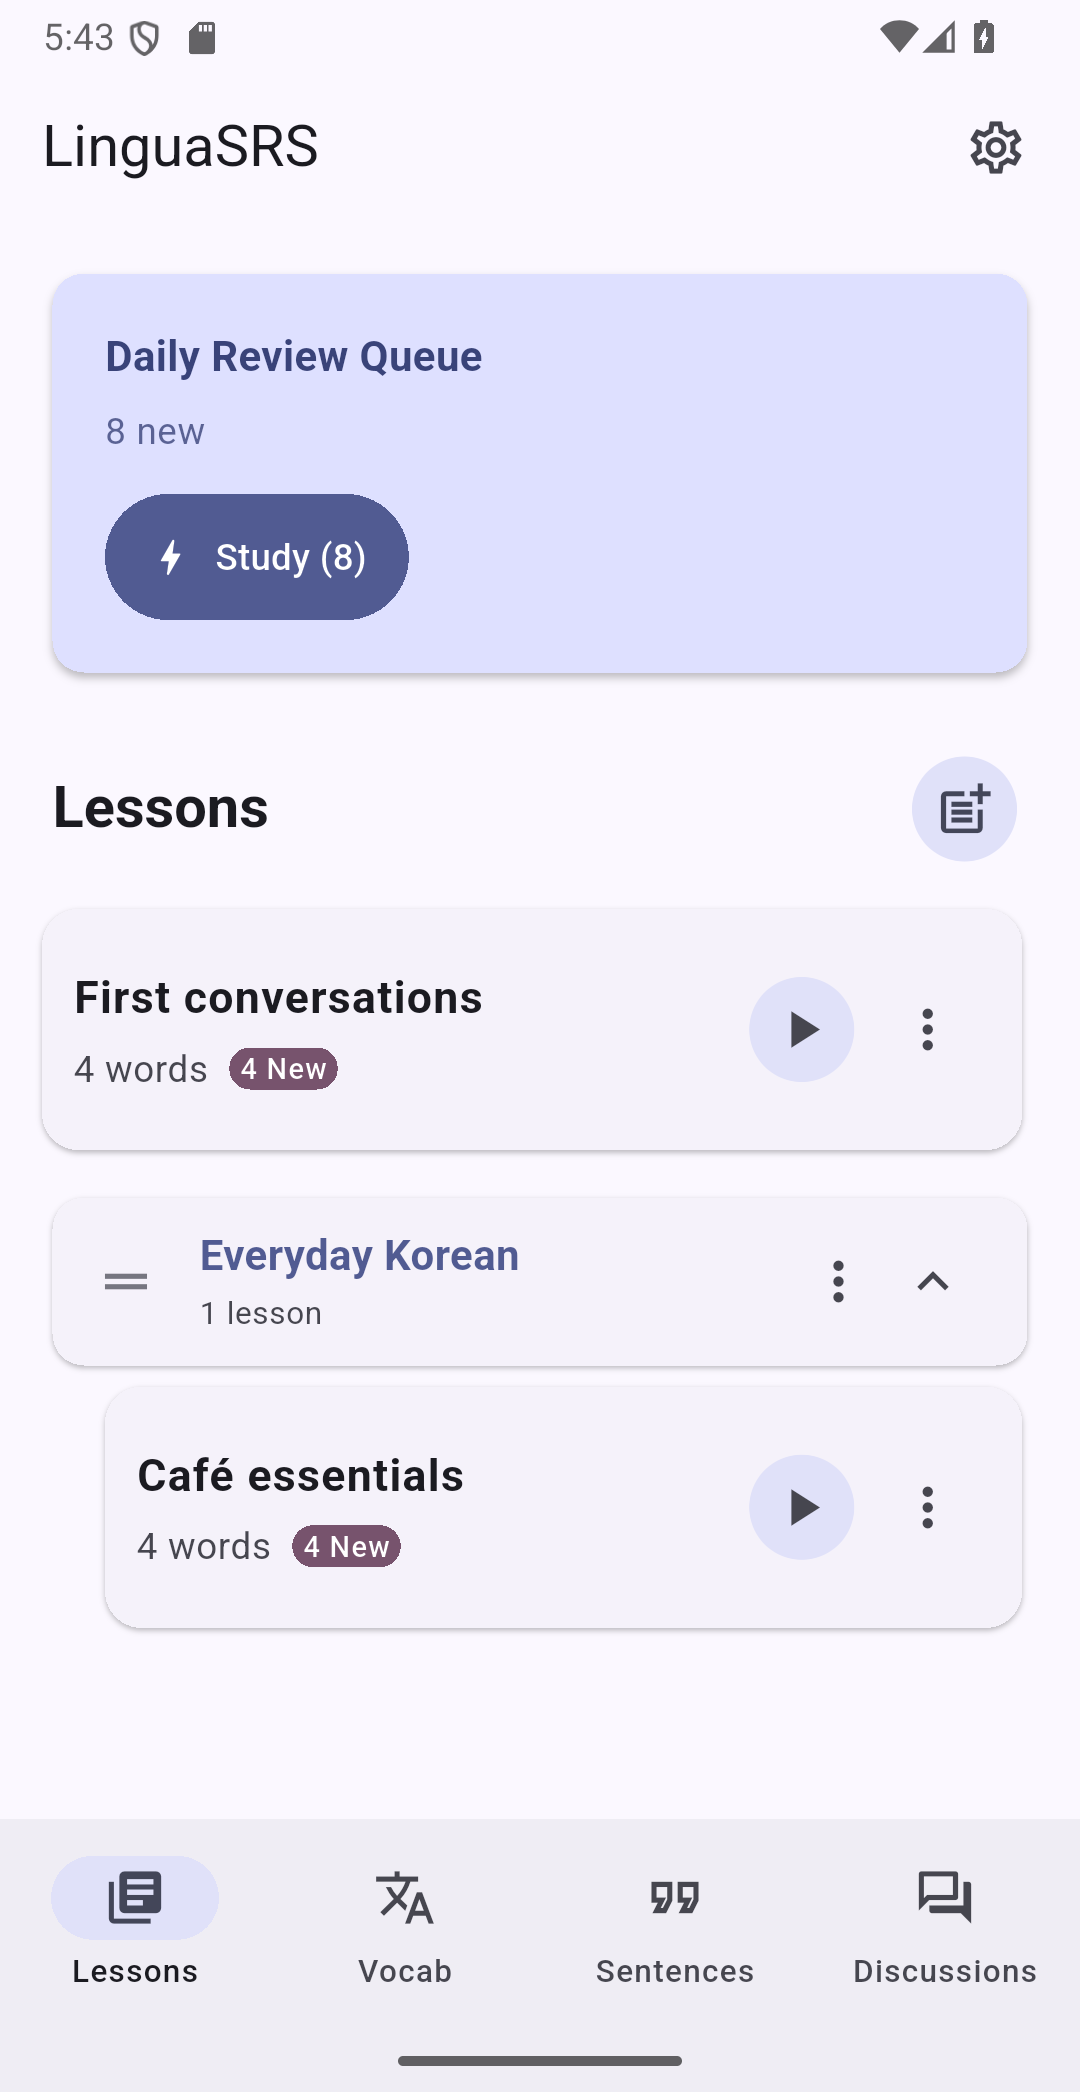
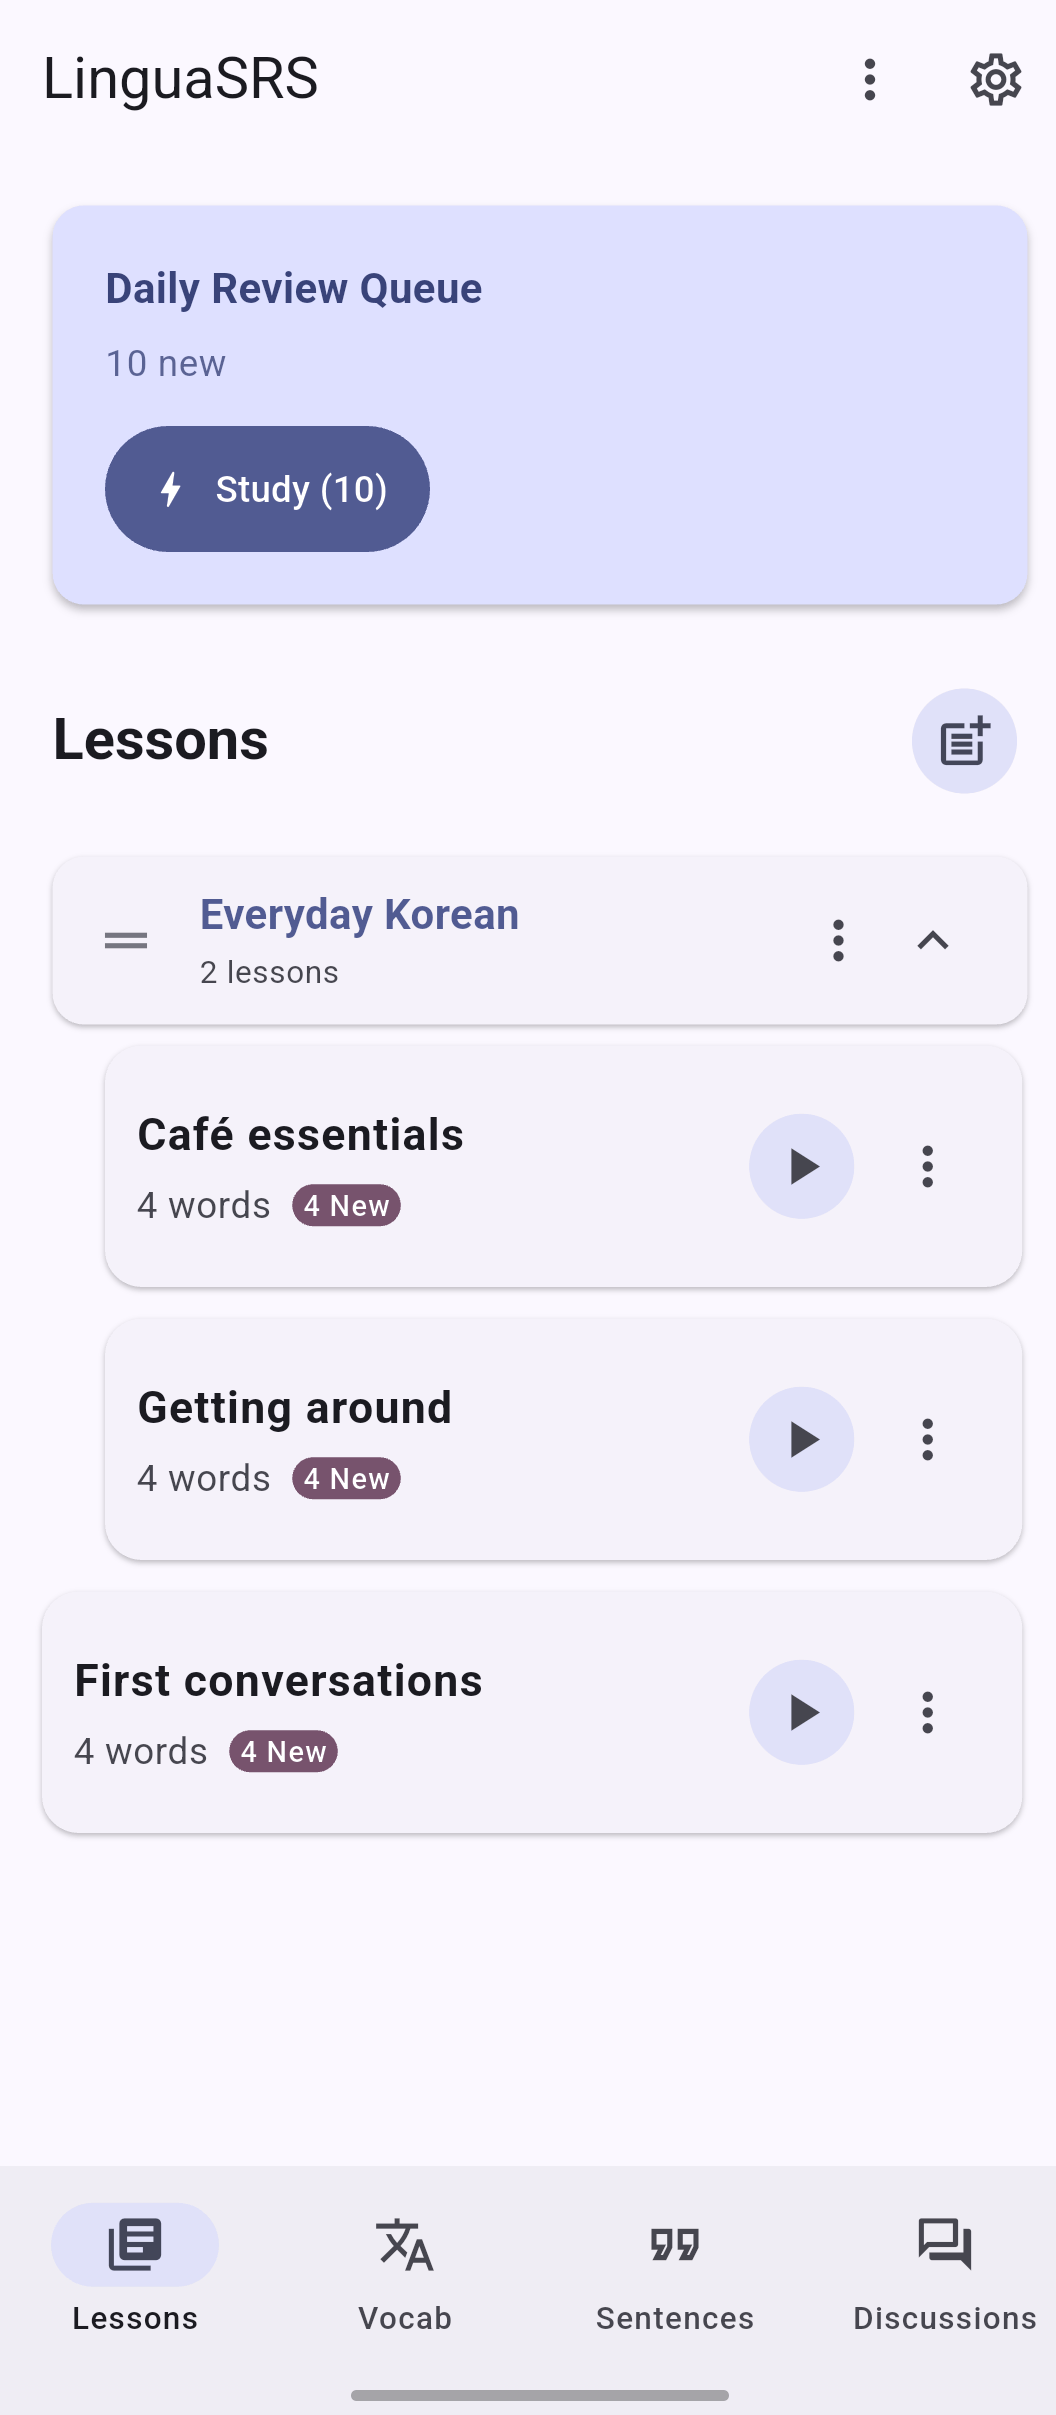
docs(readme): put mobile first, with more Android screenshots
The README led with desktop and showed a single Android screenshot
next to a desktop one. Most studying happens on a phone, so the
README now leads with mobile.

- Say up front that the app is built for Android and iOS, with the
  same app on Windows, macOS and Linux.
- Show five Android screenshots in the first table: Lessons, a card
  front (EN -> KO cloze), its back, the Vocab Pool and the Sentence
  Pool.
- Replace android-lessons.png with a new capture from the same demo
  lessons, so all mobile shots match. Status bars are cropped off.
- Move the desktop screenshots into a collapsed "Desktop screenshots"
  section.
- In Running, list devices first and run on a device id, rather than
  defaulting to Windows.

Screenshots use demo lessons only, with no personal study data.

Fixes #68

diff --git a/README.md b/README.md
@@ -1,23 +1,32 @@
 # LinguaSRS
 
-SRS that puts language learning first: custom lessons, lesson-by-lesson vocabulary review, and a shared sentence pool. A Flutter app for **Windows, macOS, Linux, Android and iOS**, using an Anki-style SM-2 spaced repetition system.
+SRS that puts language learning first: custom lessons, lesson-by-lesson vocabulary review, and a shared sentence pool. Built for studying on your phone (**Android and iOS**), with the same app on **Windows, macOS and Linux**. It uses an Anki-style SM-2 spaced repetition system.
 
 ## Screenshots
 
 <table>
   <tr>
-    <th align="center">Desktop</th>
-    <th align="center">Android</th>
+    <th align="center">Lessons</th>
+    <th align="center">Review</th>
+    <th align="center">Answer</th>
+    <th align="center">Vocab</th>
+    <th align="center">Sentences</th>
   </tr>
   <tr>
-    <td valign="top"><img src="docs/images/desktop-lessons.png" alt="Desktop lessons dashboard with daily review queue" width="100%"></td>
-    <td valign="top"><img src="docs/images/android-lessons.png" alt="LinguaSRS lessons dashboard on Android" width="100%"></td>
+    <td valign="top"><img src="docs/images/android-lessons.png" alt="Lessons dashboard on Android, with the daily review queue and lessons grouped into a unit" width="100%"></td>
+    <td valign="top"><img src="docs/images/android-review-front.png" alt="Card front on Android: English prompt with the Korean word blanked out of an example sentence" width="100%"></td>
+    <td valign="top"><img src="docs/images/android-review-back.png" alt="Card back on Android: Korean word, example sentence with audio, and Again and Good buttons" width="100%"></td>
+    <td valign="top"><img src="docs/images/android-vocab-pool.png" alt="Vocab Pool on Android with search and part-of-speech filters" width="100%"></td>
+    <td valign="top"><img src="docs/images/android-sentences.png" alt="Shared Sentence Pool on Android" width="100%"></td>
   </tr>
 </table>
 
 <details>
-<summary>More desktop screenshots</summary>
+<summary>Desktop screenshots</summary>
 
+<p align="center">
+  <img src="docs/images/desktop-lessons.png" alt="Desktop lessons dashboard with daily review queue" width="100%">
+</p>
 <p align="center">
   <img src="docs/images/desktop-vocab-pool.png" alt="Desktop vocabulary pool with search and part-of-speech filters" width="49%">
   <img src="docs/images/desktop-sentences.png" alt="Desktop shared sentence pool" width="49%">
@@ -61,7 +70,8 @@ Currently only Korean ➔ English is supported. Full details in [docs/features.m
 
 ```bash
 flutter pub get
-flutter run -d windows            # or macos, linux, <android/ios device id>
+flutter devices                   # find your phone's device id
+flutter run -d <device id>        # Android or iOS; or windows, macos, linux
 flutter test
 ```
 
